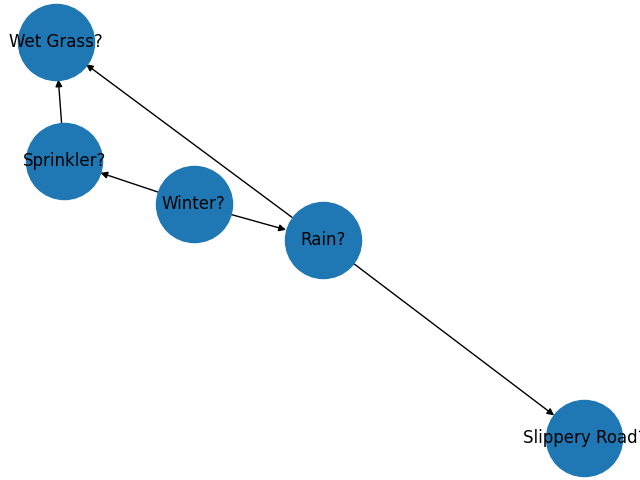
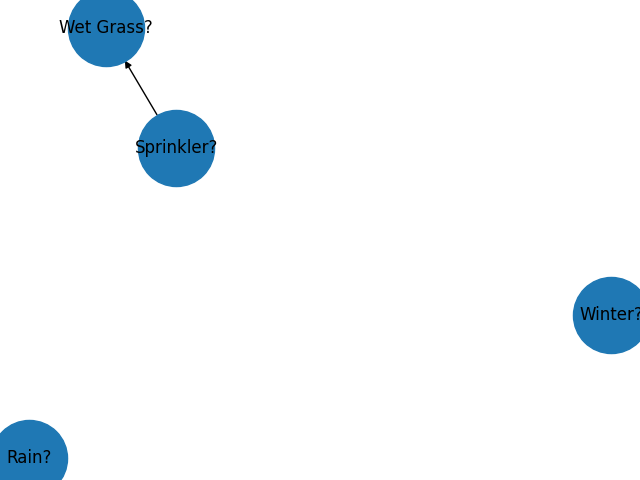
Fix node pruning

diff --git a/tools/BNReasoner.py b/tools/BNReasoner.py
@@ -291,9 +291,11 @@ class BNReasoner:
         # Remove any edges outgoing from the variables in the query or evidence
         graph.structure.remove_edges_from([x for x in graph.structure.edges if x[0] in e])
         [graph.update_cpt(i, graph.reduce_factor(pd.Series(evidence), graph.get_cpt(i))) for i in graph.get_all_variables()]
-        # Remove any leaf node that doesn't appear in the query or evidence
-        nodeList = [node for node in graph.structure.nodes if not node in e + q or graph.get_children(node)]
-        if nodeList: graph.structure.remove_nodes_from(nodeList)
+        # Iteratively remove any leaf node that doesn't appear in the query or evidence
+        nodeList = [node for node in graph.structure.nodes if not (node in e + q or graph.get_children(node))]
+        while nodeList: 
+            graph.structure.remove_nodes_from(nodeList)
+            nodeList = [node for node in graph.structure.nodes if not (node in e + q or graph.get_children(node))]
         return graph
 
     def marginal_distribution(self, query: Union[str, List[str]], evidence: Dict[str, bool]) -> float:

diff --git a/unit_test/unit.py b/unit_test/unit.py
@@ -133,10 +133,16 @@ if __name__ == "__main__":
     assert res2 == ['Winter?', 'Wet Grass?', 'Sprinkler?', 'Rain?'], "Incorrect min-fill ordering"
     print("Correct min-fill ordering\n")
     print("Test 6 Complete\n")
+    input("Press Enter to continue...")
 
     # Test: Marginal Distribution
 
     # Test 7: Correct marginal distribution computation
+    print("Test 7 (Lecture 4 examples): Marginal Distribution \n")
+    m_d = bn.marginal_distribution(['C'], {'A': True})
+    print(m_d)
+    print("Marginal distribution for C given A = true should yield a probability of 0.68, 0.32:")
+    
 
     # Test: MAP
 
